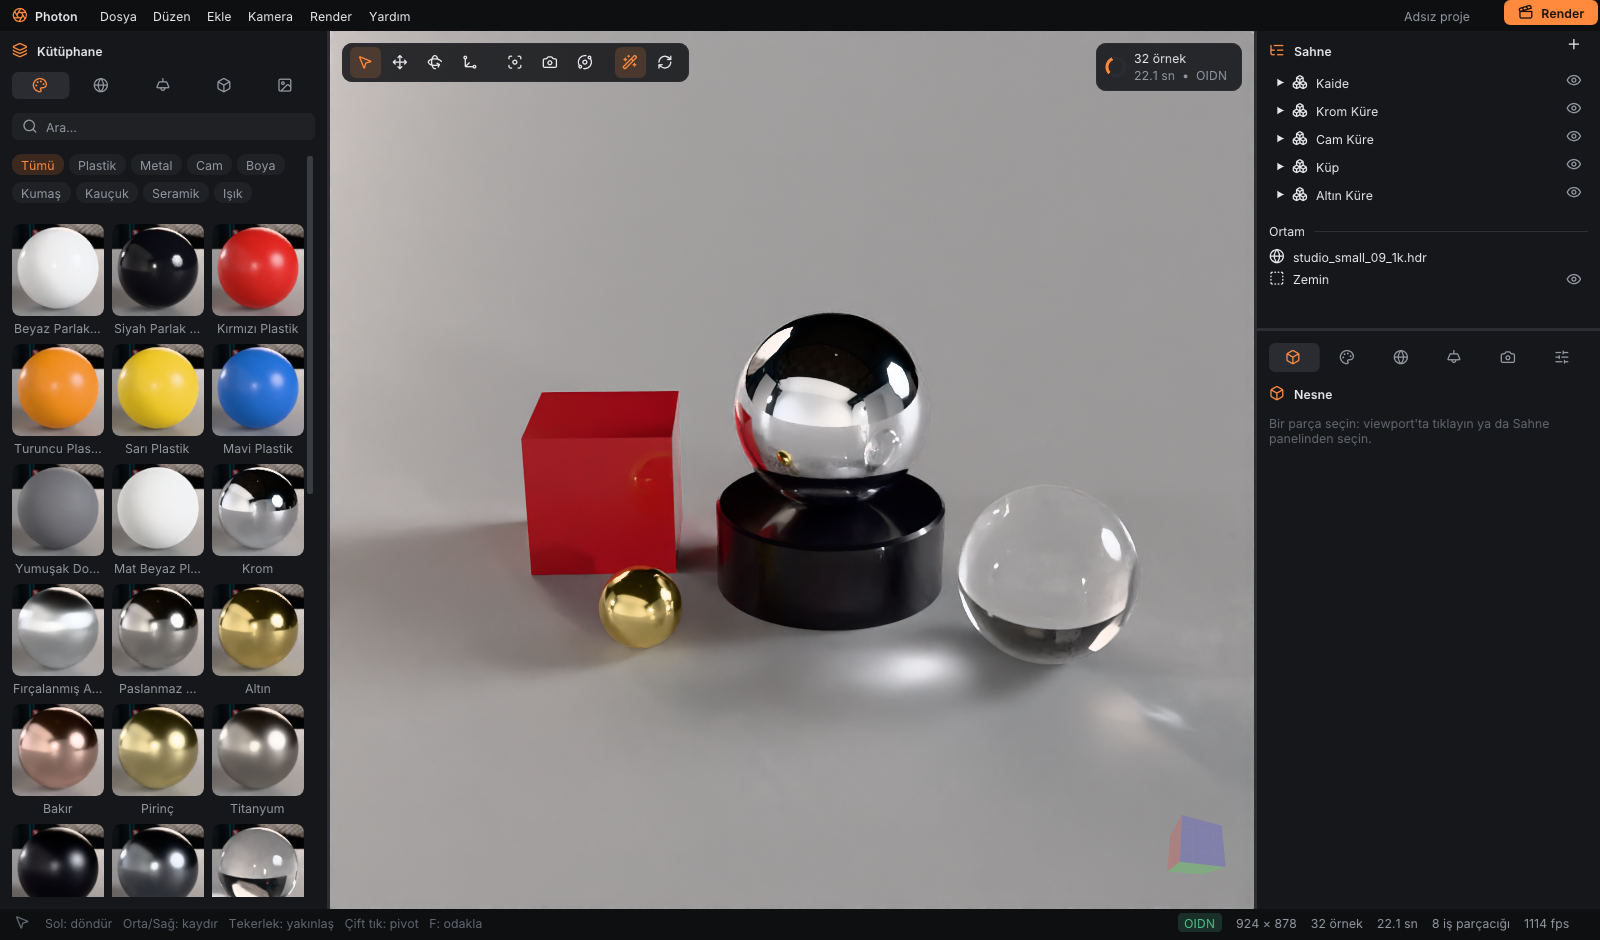
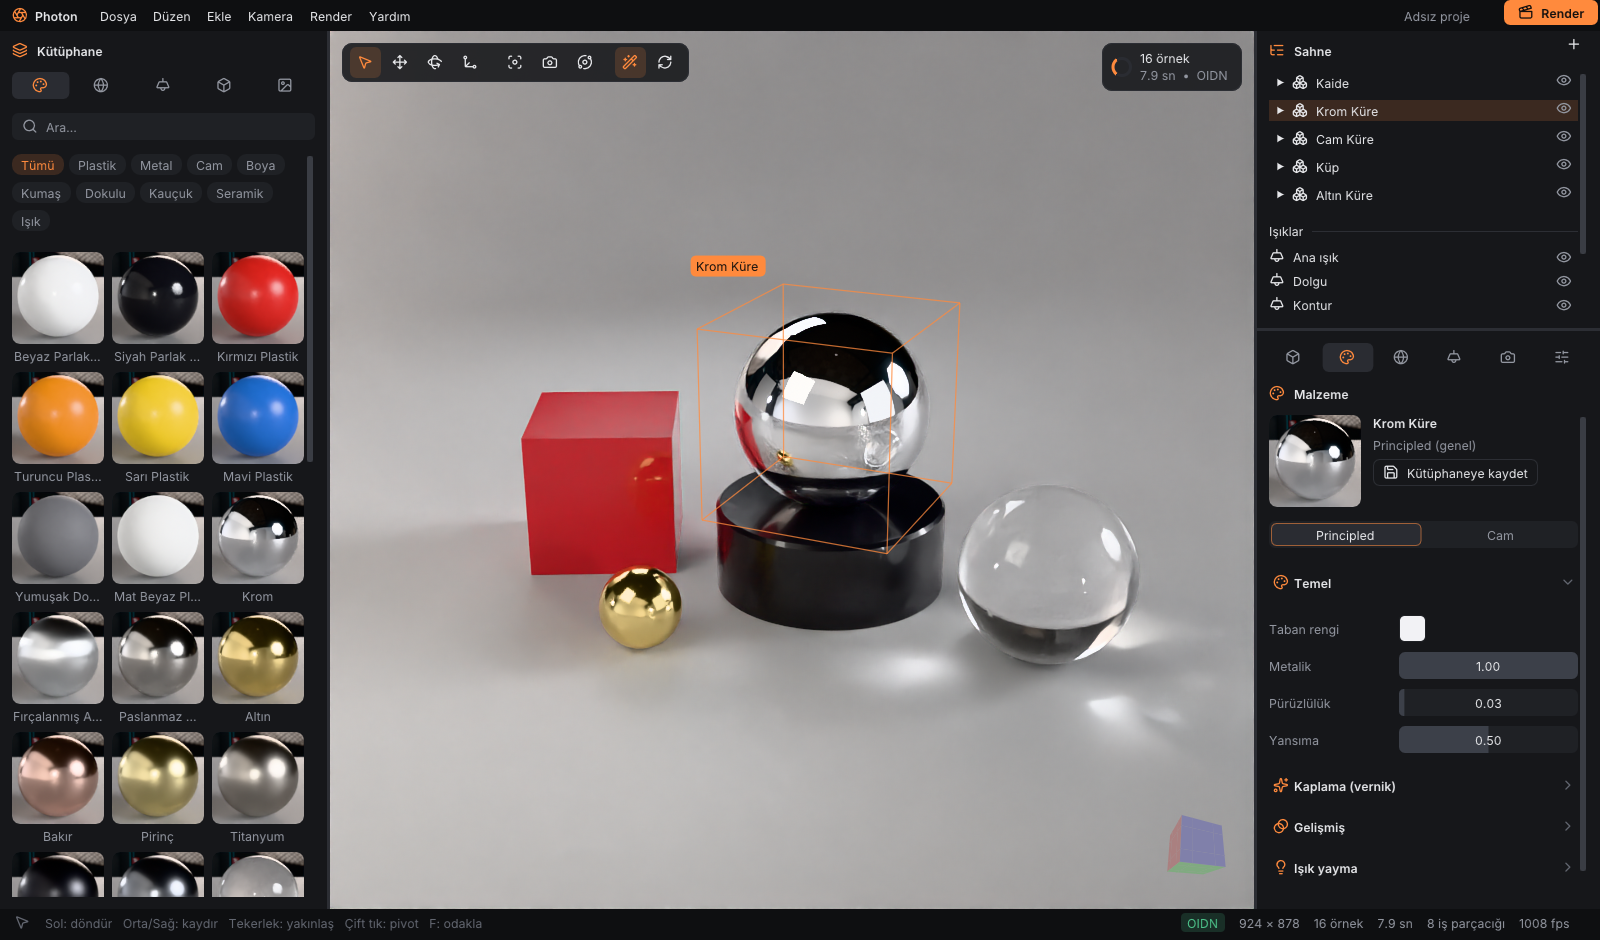
Prebuilt Embree via fetch_deps, prioritized material preview, clearer sliders, benchmark baseline

diff --git a/src/ui/widgets.cpp b/src/ui/widgets.cpp
@@ -273,12 +273,13 @@ bool filledSlider(float fraction, Fn&& draw) {
     dl->AddRectFilled(p, ImVec2(p.x + w, p.y + h), col(pal.bg2), r);
     const float fx = p.x + w * std::clamp(fraction, 0.0f, 1.0f);
     if (fx > p.x + 1.0f) {
-        dl->AddRectFilled(p, ImVec2(fx, p.y + h), col(active ? pal.accent : pal.bg3, active ? 0.45f : 1.0f), r,
+        dl->AddRectFilled(p, ImVec2(fx, p.y + h), active ? col(pal.accent, 0.45f) : IM_COL32(60, 64, 73, 255), r,
                           fx >= p.x + w - r ? ImDrawFlags_RoundCornersAll : ImDrawFlags_RoundCornersLeft);
     }
-    // İnce işaretçi çizgisi: değerin tam yerini gösterir.
-    dl->AddRectFilled(ImVec2(std::max(p.x, fx - 1.5f), p.y + 4.0f), ImVec2(std::min(p.x + w, fx + 1.5f), p.y + h - 4.0f),
-                      col(active || hovered ? pal.accent : pal.textDim), 1.5f);
+    // İnce işaretçi: yalnız üzerine gelince/sürüklerken ve alt kenarda (sayının üstüne binmesin).
+    if (active || hovered)
+        dl->AddRectFilled(ImVec2(std::max(p.x, fx - 1.5f), p.y + h - 3.0f), ImVec2(std::min(p.x + w, fx + 1.5f), p.y + h),
+                          col(pal.accent), 1.0f);
     dl->ChannelsMerge();
     return changed;
 }

diff --git a/src/app/thumbnails.cpp b/src/app/thumbnails.cpp
@@ -101,7 +101,9 @@ void ThumbnailBaker::requestMaterial(const std::string& key, const MaterialPrese
         auto it = std::find_if(m_jobs.begin(), m_jobs.end(), [&](const Job& q) { return q.key == key; });
         if (it != m_jobs.end()) *it = j;
         else {
-            m_jobs.push_back(j);
+            // Zorla istenen (seçili malzemenin önizlemesi) kuyruğun başına: kullanıcı bekliyor.
+            if (force) m_jobs.push_front(j);
+            else m_jobs.push_back(j);
             ++m_pending;
         }
     }

diff --git a/bench/BASELINE.md b/bench/BASELINE.md
@@ -1,0 +1,17 @@
+# Ölçüm tabanı
+
+Makine: i7-6700K (4 çekirdek / 8 iş parçacığı), 32 GB, Windows 11, MSVC 19.51 Release (/O2, /arch:AVX2, /fp:fast).
+Sahne: `bench/scenes/showcase.photon` (ürün vitrini: ~13 bin üçgen, 3 alan ışığı + HDRI, cam, krom, araç boyası).
+Komut: `photon_render bench/scenes/showcase.photon --res 960x540 --spp 32 --no-denoise`.
+"Örnek" = bir kamera yolu (8 sekmeye kadar). Birim: milyon örnek / saniye.
+
+| Tarih | Değişiklik | 8 thread | 1 thread |
+|---|---|---|---|
+| 2026-10-06 | Başlangıç (kendi BVH, her adayda tam gölgelendirme) | 2.32 | 0.46 |
+| 2026-10-06 | Yalın üçgen testli BVH gezinmesi | 2.12 (ölçüm gürültüsü; darboğaz değilmiş) | — |
+| 2026-10-06 | Embree 4 + `isDelta` / `evalPdf` (köşe başına 3 gereksiz BSDF değerlendirmesi kalktı) | **3.64** | **0.72** |
+
+Tek thread profil (Embree öncesi, köşe başına çevrim payı): kesişim %44, malzeme değerlendirme %27,
+ışık örnekleme %6, ortam değerlendirme %3, kalan (örnekleyici, Rus ruleti, ofset) %20.
+
+1080p, 128 örnek, OIDN: 78 sn (`showcase_1080p.png`, `showcase_stats.json`).
